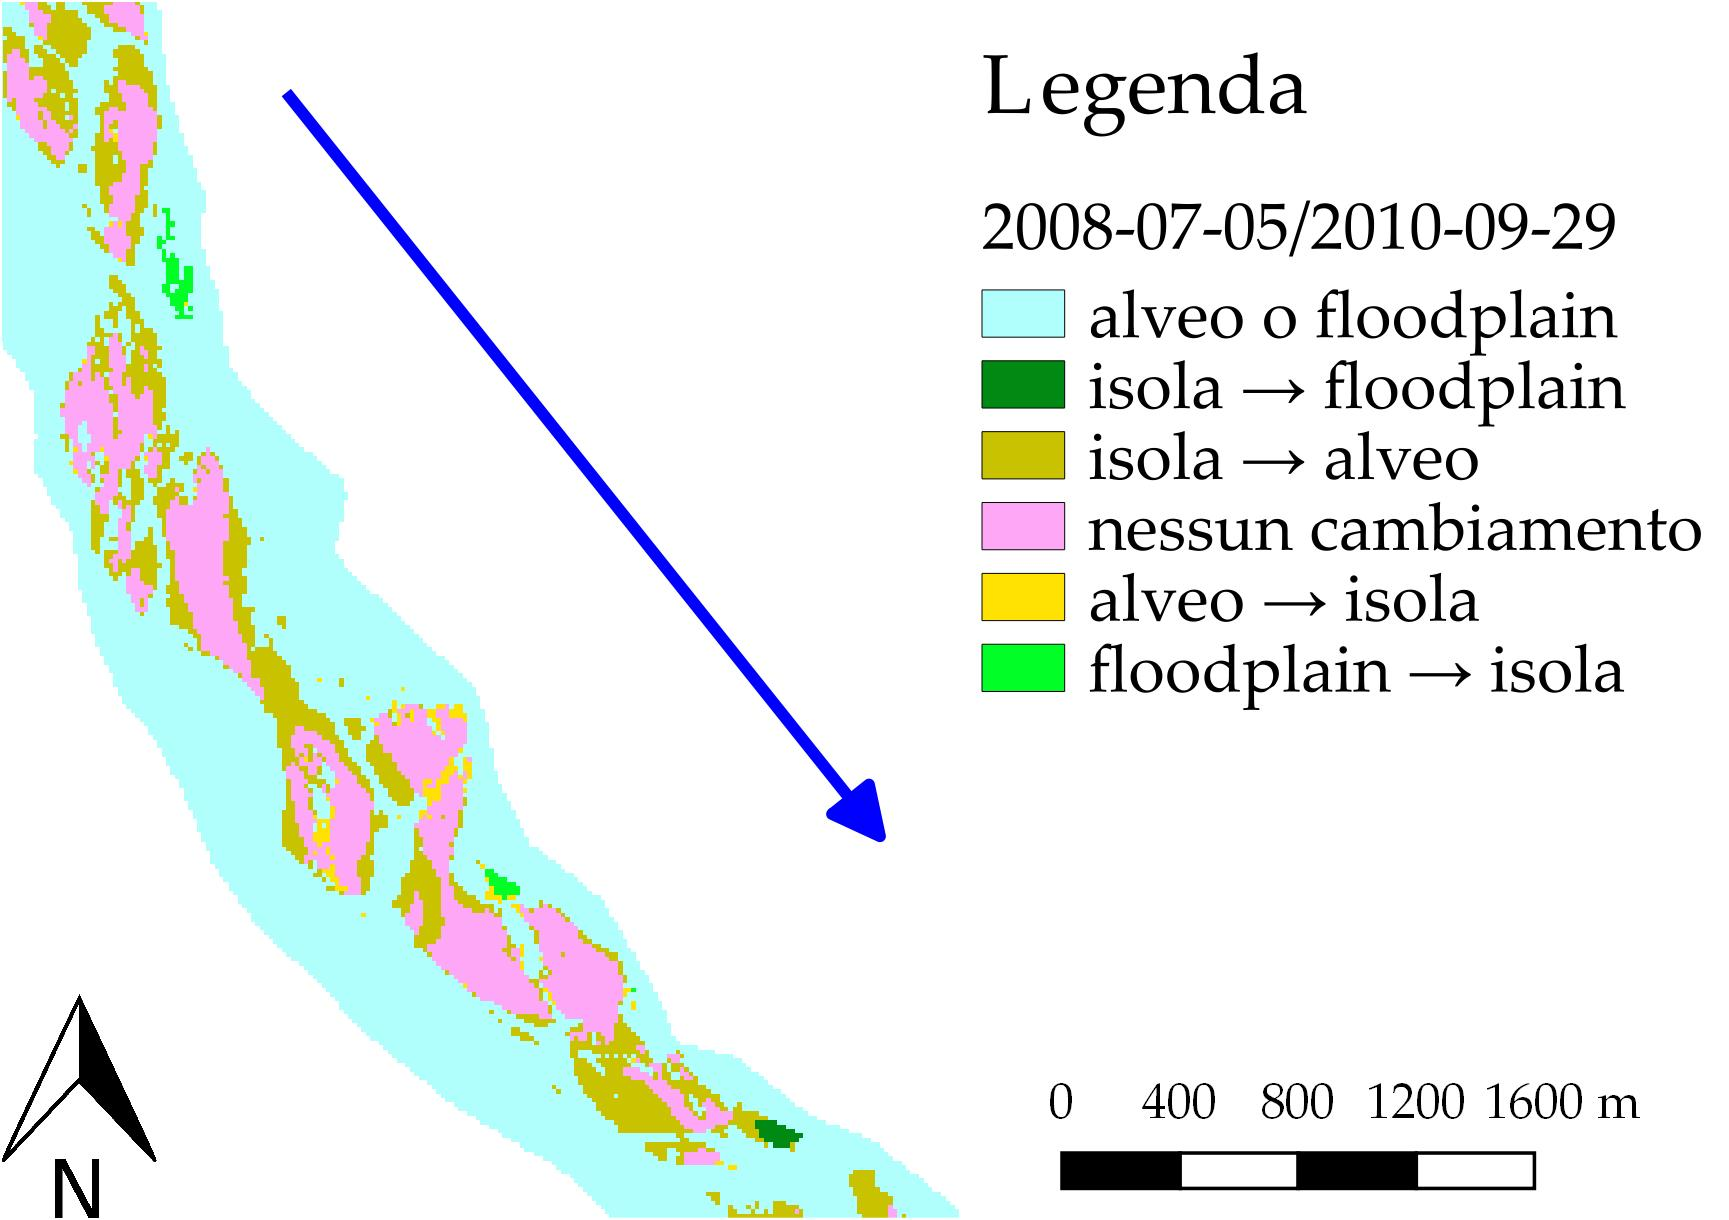
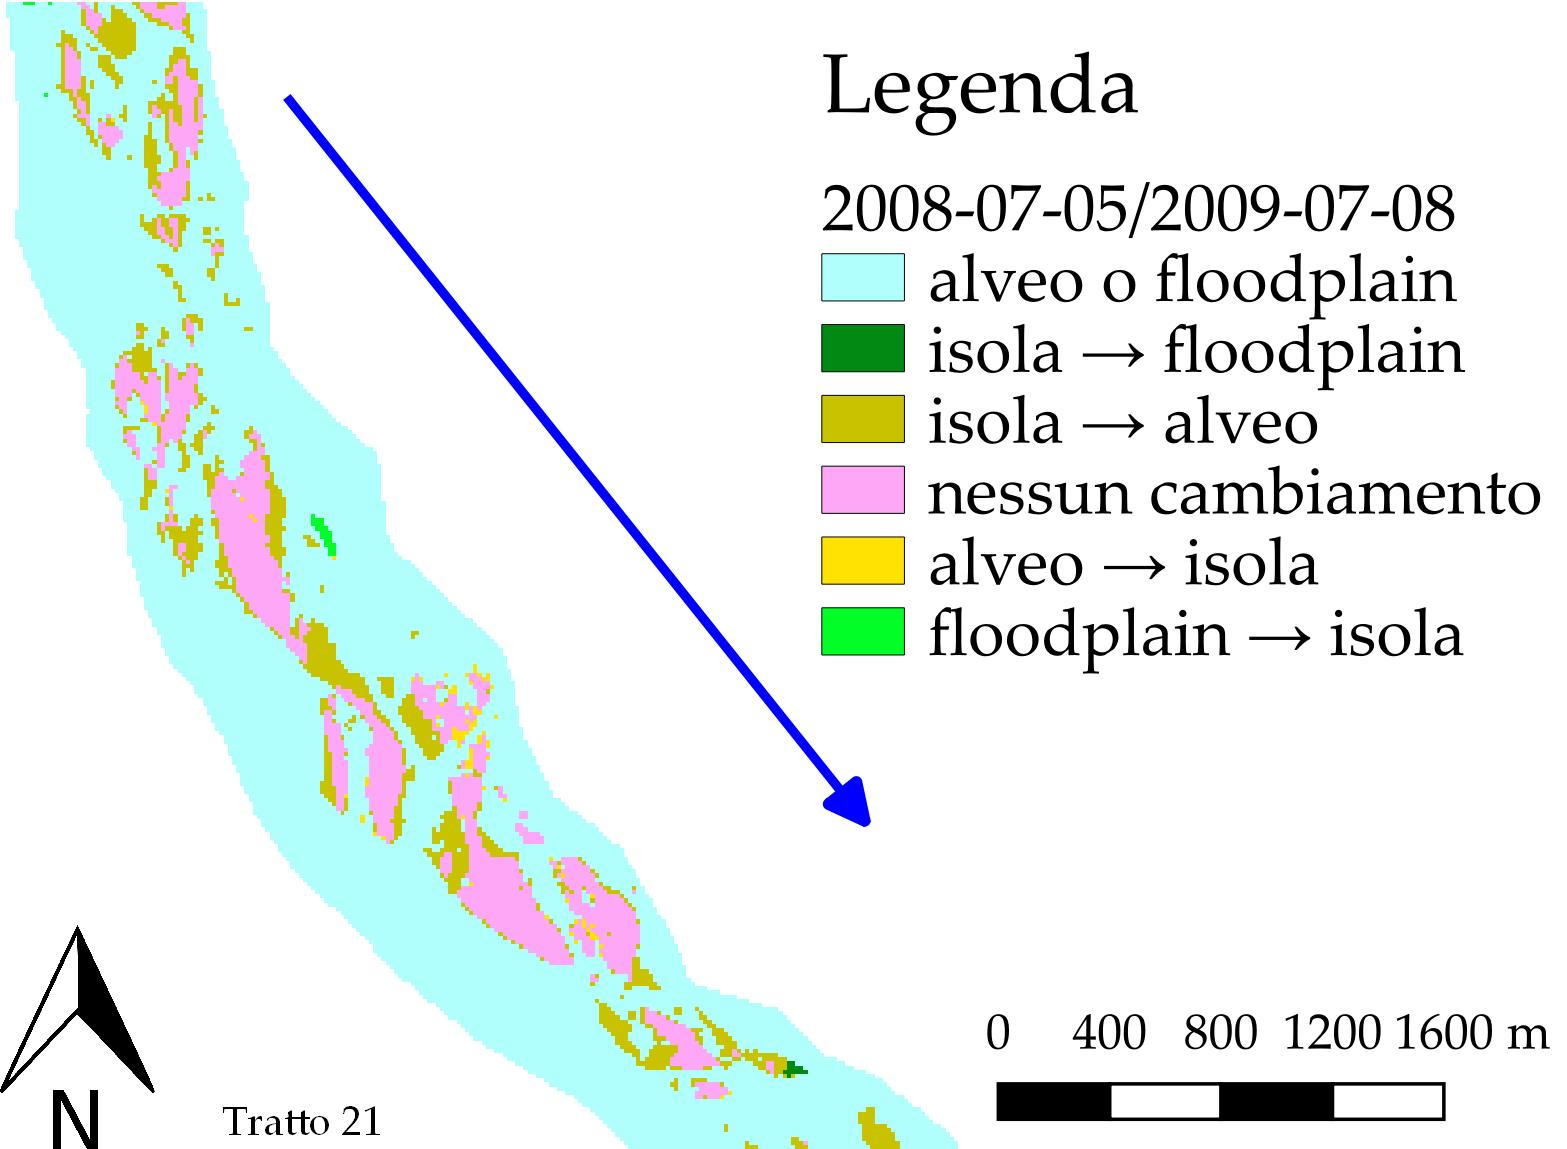
Fix+New: only new sat imgs, class_is_fl validated

diff --git a/capitoli/2-vegetazione-piene.tex b/capitoli/2-vegetazione-piene.tex
@@ -13,17 +13,17 @@ Per classificare il terreno occupato dall'alveo è stato seguito l'approccio di 
 	%
 	\begin{figure}[t]
 		\centering
-		\begin{subfigure}[b]{0.296\textwidth}
-			\includegraphics[width=\textwidth]{files/esempio_mask_2000_09_17.jpeg}
-			\caption{\AST{} 2000-09-17.}
+		\begin{subfigure}[b]{0.4\textwidth}
+			\includegraphics[width=\textwidth]{files/esempio_mask_2002_06_12.jpeg}
+			\caption{\AST{} 2002-06-12.}
 		\end{subfigure}
 		\qquad
-		\begin{subfigure}[b]{0.30\textwidth}
-			\includegraphics[width=\textwidth]{files/esempio_mask_2015_09_11.jpeg}
-			\caption{\AST{} 2015-09-11.}
+		\begin{subfigure}[b]{0.4\textwidth}
+			\includegraphics[width=\textwidth]{files/esempio_mask_2015_09_12.jpeg}
+			\caption{\Se{} 2015-09-12.}
 		\end{subfigure}
 		\caption[definizione della maschera per limitare il dominio computazionale]
-			{esempio in cui si vede come la maschera utilizzata per limitare il dominio computazionale (in giallo) sia il risultato dell'inviluppo degli alvei attivi che si sono modificati nel tempo; le immagini sono in falsi colori (IR-R-G).}
+			{esempio in cui si vede come la maschera utilizzata per limitare il dominio computazionale (in giallo) sia il risultato dell'inviluppo degli alvei attivi che si sono modificati nel tempo; le immagini sono le mappe di NDVI.}
 		\label{fig:esempio-maschera}
 	\end{figure}
 	%
@@ -71,11 +71,11 @@ Per classificare il terreno occupato dall'alveo è stato seguito l'approccio di 
 		\centering
 		\begin{tabular}{
 			c 
-			S[table-format=1.1]@{\,}
+			S[table-format=1.2]@{\,}
 			c@{\,}
 			c@{\,}
 			c@{\,}
-			S[table-format=1.1]
+			S[table-format=1.2]
 			S[table-format=1.1]@{\,}
 			c@{\,}
 			c@{\,}
@@ -85,8 +85,8 @@ Per classificare il terreno occupato dall'alveo è stato seguito l'approccio di 
 			\toprule
 			&	\multicolumn{5}{c}{\textbf{Soglie AST PL S2}}	&	\multicolumn{5}{c}{\textbf{Soglie WV2}}	\\
 			\midrule
-			Vegetazione		&	0.2	&	$\leq$	&	NDVI	&			&		& 	0.3	&	$\leq$	&	NDVI	&			& 	\\
-			Alveo attivo	&	0.0	&	$\leq$	&	NDVI	&	$<$		&	0.2	&	0.0	&	$\leq$	&	NDVI	&	$<$		&	0.3\\
+			Vegetazione		&	0.25	&	$\leq$	&	NDVI	&			&		& 	0.3	&	$\leq$	&	NDVI	&			& 	\\
+			Alveo attivo	&	0.0	&	$\leq$	&	NDVI	&	$<$		&	0.25	&	0.0	&	$\leq$	&	NDVI	&	$<$		&	0.3\\
 			Canale			&		&			&	NDVI	&	$<$		&	0.0	&		&			&	NDVI	&	$<$		&	0.0\\
 			\bottomrule
 		\end{tabular}
@@ -102,7 +102,7 @@ Per classificare il terreno occupato dall'alveo è stato seguito l'approccio di 
 	%
 	\begin{figure}
 		\centering
-		\includegraphics[width=.8\textwidth]{files/tutti_23_tratti.jpeg}
+		\includegraphics[width=\textwidth]{files/tutti_23_tratti.jpeg}
 		\caption[immagine con la maschera suddivisa in 23 tratti]{immagine con la maschera suddivisa in 23 tratti; la sezione di monte del tratto~1 corrisponde a Tolmezzo, la sezione di valle del tratto~23 corrisponde al ponte di Madrisio.}
 		\label{fig:23-tratti}
 	\end{figure}
@@ -148,8 +148,8 @@ Per classificare il terreno occupato dall'alveo è stato seguito l'approccio di 
 	%
 	\begin{figure}[ht]
 		\centering
-		\includegraphics[width=.8\textwidth]{files/esempio_class_is_fl.jpeg}
-		\caption[esempio della classificazione dell'area dei tratti]{esempio della classificazione dell'area dei tratti; la zona raffigurata si colloca a ridosso del ponte autostradale a valle di Braulins.}
+		\includegraphics[width=\textwidth]{files/esempio_class_is_fl.jpeg}
+		\caption[esempio della classificazione dell'area dei tratti]{esempio della classificazione dell'area dei tratti; le zone raffigurate sono rispettivamente a monte dell'isola di Cornino (in corrispondenza del monte Prat) e in corrispondenza della confluenza del Fella.}
 		\label{fig:class_is_fl}
 	\end{figure}
 	%
@@ -172,10 +172,31 @@ Al fine di validare la precedente procedura di controllo e correzione della dist
 		\input{graphics/plots/larghezze_tr_7_tr_15.tex}
 		\quad
 		\includegraphics[width=0.3\textwidth]{files/fusione_isola_tr_15.jpeg}
-		\caption[andamento temporale di $B$ per i tratti~7 e~15]{a sinistra si vede l'andamento nel tempo della larghezza media dei tratti~7 e~15; la $B$ del tratto~7 oscilla solamente di qualche decina di metri, mentre il tratto~15 riduce improvvisamente la sua $B$ a causa della fusione di una grande isola nella \emph{floodplain}, fenomeno mostrato a destra (A: 2003-11-29, B: 2005-08-30).}
+		\caption[andamento temporale di $B$ per i tratti~7 e~15]{a sinistra si vede l'andamento nel tempo della larghezza media dei tratti~7 e~15; la $B$ del tratto~7 oscilla solamente di qualche decina di metri, mentre il tratto~15 riduce improvvisamente la sua $B$ a causa della fusione di una grande isola nella \emph{floodplain}, fenomeno mostrato a destra (A: 2002-06-12, B: 2005-08-30).}
 		\label{fig:b-media-7-e-15}
 	\end{figure}
-	
+	%
+	%
+	\item[Ulteriore validazione] Si è confrontata la classificazione del 2011-10-02 con la classificazione eseguita manualmente da \cite{Surian:2015} nei tratti \numrange[range-phrase={$\div$}]{6}{12} (dal ponte autostradale di Braulins alla stretta di Pinzano).
+	Le mappe di classificazione del 2005-08-30, 2010-09-29, 2013-09-05 sono state confrontate con i CSM ricavati dai rilievi aerei LiDAR eseguiti nei corrispondenti anni sui tratti \numrange[range-phrase={$\div$}]{6}{12} (\vref{fig:validazione-class-is-fl}).
+	%	
+	\begin{figure}
+		\centering
+		\includegraphics[width=\textwidth]{files/Class_mia_vs_surian_csm.jpeg}
+		\caption[validazione della classificazione dell'alveo]{confronto tra le mappe di classificazione dell'alveo e i CSM dai rilievi aerei LiDAR e la classificazione manuale eseguita in \cite{Surian:2015}; le aree scure corrispondono alla vegetazione individuata nei CSM e dalla classificazione manuale; per la legenda delle mappe di classificazione dell'alveo vedere la \vref{fig:class_is_fl}.}
+		\label{fig:validazione-class-is-fl}
+	\end{figure}
+	%
+	\\
+	Visualmente si verifiche che c'è sostanziale corrispondenza tra le classificazioni ottenute dalle immagini satellitari e la vegetazione individuata dai CSM, così come tra la classificazione manuale di \cite{Surian:2015} e la mappa del 2011-10-22.
+	\\
+	Esiste una certa differenza tra la classificazione manuale e quella semi-automatica utilizzata nel presente lavoro: la metodologia con cui si procede influisce sul risultato finale.
+	Avendo \cite{Surian:2015} utilizzato ortofoto ad alta risoluzione (\SI{0.1}{\m}), hanno potuto facilmente distinguere le chiome dei singoli alberi dalla ghiaia o vegetazione bassa circostante; le immagini satellitari utilizzate (principalmente a risoluzione di \SI{10}{\m} o \SI{15}{\m}) permettono invece di osservare macchie di vegetazione.
+	In quanto si considera come isola non solo la vegetazione presente all'interno dell'alveo attivo, ma anche la zona meno vegetata posta circa alla medesima quota, l'approccio seguito sembra delineare più nettamente il contorno delle isole maggiori, sebbene le isole più piccole (con estensione minore di una cella) non siano individuate.
+	\\
+	Un rapido confronto delle mappe di classificazione \Pl{} e \WV{} ad alta risoluzione (\SI{0.5}{\m}) con le mappe di classificazione manuale e il CSM del 2013-10-22 mostra una sovrapposizione quasi completa della vegetazione individuata con i diversi metodi.
+	\\
+	A fronte di quanto esposto, si ritiene che la classificazione eseguita sia sufficientemente validata.
 \end{description}
 
 
@@ -223,14 +244,15 @@ L'analisi si è focalizzata sulle isole, escludendo così la piana alluvionale.
 \subsection{Metodi: ottenere il cambiamento}
 \paragraph{Limitazioni} \label{par:camb-limiti}
 Alcune mappe hanno una estensione limitata oppure presentano zone con copertura nuvolosa: ciò riduce il numero di confronti possibili per alcuni tratti. 
-Dalle 23 immagini satellitari (si veda la \vref{tab:date-orto-sat}) si sono ottenute in media 16~immagini per tratto.
+Dalle 23 immagini satellitari (si veda la \vref{tab:date-orto-sat}) si sono ottenute in media 20~immagini di confronto per tratto (\vref{tab:confronti}).
 
 Inoltre, le immagini \AST{} non sono correttamente georeferenziate e non sono perfettamente sovrapponibili; l'entità di questo scostamento è dell'ordine di qualche cella.
 Questo difetto è di grande importanza poiché per poter investigare l'evoluzione temporale delle isole occorre poter osservare nel tempo ogni cella; se questa si sposta da un'immagine alla successiva, il confronto non è più valido.
 \\
 La soluzione adottata è stata quella di traslare ogni mappa a nord, sud, est o ovest del numero di celle necessario per poterla sovrapporre alla mappa temporalmente precedente.
 L'operazione è stata ripetuta per ogni confronto, per ogni tratto, ed è stata verificata visivamente.
-Il massimo errore residuo è di 1~cella di scostamento in pochissime zone nei primi tratti (\numrange[range-phrase={ - }]{1}{4}); data la locale topografia montuosa si è preferito ridurre l'errore a tale entità e tenerlo sotto controllo piuttosto di distorcere la mappa con altre misure di georettifica.
+Il massimo errore residuo è di 1~cella (\SI{15}{\m}) di scostamento in pochissime zone nei primi tratti (\numrange[range-phrase={ - }]{1}{4}); data la locale topografia montuosa si è preferito ridurre l'errore a tale entità e tenerlo sotto controllo piuttosto di distorcere la mappa con altre misure di georettifica.
+L'entità di questo errore è accettabile poiché quasi tutte le isole hanno estensione maggiore di \SI{225}{\m\tothe{2}}.
 \\
 Le altre immagini sono invece correttamente georeferenziate.
 
@@ -263,7 +285,7 @@ dove
 %
 Si è scelto di normalizzare l'area di ogni classe per l'area totale per lavorare con percentuali.
 \\
-Nei ricampionamenti da \SI{0.5}{\m} il $50_\mathrm{mo}$ percentile (mediana) è quello che mostra il minor RSQR ($<\SI{3}{\percent}$); in quelli da \SI{10}{\m} il $75_\mathrm{mo}$ percentile (terzo quartile) è il migliore ($RSQR<\SI{6}{\percent}$). Un esempio del risultato ottenuto è mostrato in \vref{fig:ricampionamento}.
+Nei ricampionamenti da \SI{0.5}{\m} il $50_\mathrm{mo}$ percentile (mediana) è quello che mostra il minor RSQR ($<\SI{3}{\percent}$). Un esempio del risultato ottenuto è mostrato in \vref{fig:ricampionamento}.
 %
 \begin{figure}
 	\centering
@@ -289,29 +311,29 @@ I confronti effettuati hanno la massima risoluzione temporale possibile, cioè p
 		\textbf{Tratto}	&	\textbf{Confronti}	&	\textbf{Primo}		&	\textbf{Ultimo}	\\
 						&	\textbf{validi}		&	\textbf{confronto}	&	\textbf{confronto}	\\
 		\midrule
-		1	&	13	&	2000-09-17/2003-06-22	&	2016-09-13/2017-04-21	\\
-		2	&	13	&	2000-09-17/2001-06-17	&	2016-09-13/2017-04-21	\\
-		3	&	16	&	2000-09-17/2001-06-17	&	2016-09-13/2017-04-21	\\
-		4	&	16	&	2000-09-17/2001-06-17	&	2016-09-13/2017-04-21	\\
-		5	&	16	&	2000-09-17/2001-06-20	&	2016-09-13/2017-04-21	\\
-		6	&	18	&	2000-09-17/2001-06-17	&	2017-04-21/2018-06-15	\\
-		7	&	18	&	2000-09-17/2001-06-17	&	2017-04-21/2018-06-15	\\
-		8	&	19	&	2000-09-17/2001-06-17	&	2017-04-21/2018-06-15	\\
-		9	&	18	&	2000-09-17/2002-05-18	&	2017-04-21/2018-06-15	\\
-		10	&	18	&	2000-09-17/2002-05-18	&	2017-04-21/2018-06-15	\\
-		11	&	18	&	2000-09-17/2002-05-18	&	2017-04-21/2018-06-15	\\
-		12	&	18	&	2000-09-17/2002-05-18	&	2017-04-21/2018-06-15	\\
-		13	&	18	&	2000-09-17/2002-05-18	&	2017-04-21/2018-06-15	\\
-		14	&	21	&	2000-09-17/2002-05-18	&	2017-04-21/2018-06-15	\\
-		15	&	16	&	2000-09-17/2002-06-12	&	2016-09-13/2017-04-21	\\
-		16	&	16	&	2000-09-17/2002-06-12	&	2016-09-13/2017-04-21	\\
-		17	&	16	&	2000-09-17/2002-06-12	&	2016-09-13/2017-04-21	\\
-		18	&	16	&	2000-09-17/2002-06-12	&	2016-09-13/2017-04-21	\\
-		19	&	13	&	2000-09-17/2002-06-12	&	2016-09-13/2017-04-39	\\
-		20	&	13	&	2000-09-17/2002-06-12	&	2014-09-28/2015-09-11	\\
-		21	&	13	&	2000-09-17/2002-06-12	&	2014-09-28/2015-09-11	\\
-		22	&	13	&	2000-09-17/2002-06-12	&	2014-09-28/2015-09-11	\\
-		23	&	12	&	2002-06-12/2003-06-22	&	2014-09-28/2015-09-11	\\
+		1	&	17	&	2000-09-17/2002-05-18	&	2017-09-13/2018-09-16	\\
+		2	&	18	&	2000-09-17/2002-05-18	&	2017-09-13/2018-09-16	\\
+		3	&	19	&	2000-09-17/2001-06-07	&	2017-09-13/2018-09-16	\\
+		4	&	19	&	2000-09-17/2001-06-07	&	2017-09-13/2018-09-16	\\
+		5	&	19	&	2000-09-17/2001-06-07	&	2017-09-13/2018-09-16	\\
+		6	&	23	&	2000-09-17/2001-06-07	&	2018-06-15/2018-09-16	\\
+		7	&	23	&	2000-09-17/2001-06-07	&	2018-06-15/2018-09-16	\\
+		8	&	23	&	2000-09-17/2001-06-07	&	2018-06-15/2018-09-16	\\
+		9	&	22	&	2000-09-17/2002-05-18	&	2018-06-15/2018-09-16	\\
+		10	&	22	&	2000-09-17/2002-05-18	&	2018-06-15/2018-09-16	\\
+		11	&	21	&	2000-09-17/2002-05-18	&	2018-06-15/2018-09-16	\\
+		12	&	21	&	2000-09-17/2002-05-18	&	2018-06-15/2018-09-16	\\
+		13	&	22	&	2000-09-17/2002-05-18	&	2018-06-15/2018-09-16	\\
+		14	&	23	&	2000-09-17/2002-05-18	&	2018-06-15/2018-09-16	\\
+		15	&	19	&	2000-09-17/2002-06-12	&	2017-09-13/2018-09-16	\\
+		16	&	19	&	2000-09-17/2002-06-12	&	2017-09-13/2018-09-16	\\
+		17	&	19	&	2000-09-17/2002-06-12	&	2017-09-13/2018-09-16	\\
+		18	&	19	&	2000-09-17/2002-06-12	&	2017-09-13/2018-09-16	\\
+		19	&	19	&	2000-09-17/2002-06-12	&	2017-09-13/2018-09-16	\\
+		20	&	19	&	2000-09-17/2002-06-12	&	2017-09-13/2018-09-16	\\
+		21	&	19	&	2000-09-17/2001-06-07	&	2017-09-13/2018-09-16	\\
+		22	&	19	&	2001-06-07/2002-06-12	&	2017-09-13/2018-09-16	\\
+		23	&	19	&	2001-06-07/2002-06-12	&	2017-09-13/2018-09-16	\\
 		\bottomrule
 	\end{tabular}
 	\caption[confronti effettuati]{confronti effettuati con le 23 immagini satellitari a disposizione per ottenere dati sul cambiamento delle isole.}
@@ -335,7 +357,7 @@ Un esempio di questa classificazione è riportato nella \vref{fig:confr-class-is
 \begin{figure}
 	\centering
 	\includegraphics[width=.8\textwidth]{files/confr_class_is_fl.jpeg}
-	\caption[esempio di mappa di cambiamento]{esempio di mappa di cambiamento ottenuta con il confronto tra le immagini \AST{} 2008-07-05 e 2010-09-29. Si possono osservare tutti i cambiamenti possibili; la prima classe serve solamente a visualizzare l'area della maschera computazionale. Il tratto mostrato è posto qualche \si{\kilo\m} a monte del ponte di Madrisio.}
+	\caption[esempio di mappa di cambiamento]{esempio di mappa di cambiamento ottenuta con il confronto tra le immagini \AST{} 2008-07-05 e 2009-07-08. Si possono osservare tutti i cambiamenti possibili; la prima classe serve solamente a visualizzare l'area della maschera computazionale. Il tratto mostrato è posto qualche \si{\kilo\m} a monte del ponte di Madrisio.}
 	\label{fig:confr-class-is-fl}
 \end{figure}
 %
@@ -358,8 +380,8 @@ Dall'altra parte, nonostante la maggior intensità e durata le piene del 2012 e 
 	\input{graphics/plots/livelli}
 	\\
 	\input{graphics/plots/tr_17_camb}
-	\caption[cambiamenti esperiti dalle isole nel tratto~17]{cambiamenti esperiti dalle isole nel tratto~17 rappresentati come percentuale rispetto all'areale delle isole nella prima immagine utile. 
-	Si nota il dato relativo al confronto 2008-07-05/2010-09-29, particolarmente elevato e di pari entità tra crescita ed erosione.}
+	\caption[cambiamenti esperiti dalle isole nel tratto~17]{cambiamenti esperiti dalle isole nel tratto~17 rappresentati come percentuale rispetto all'areale delle isole nel 2000-09-17. 
+	Si nota il dato relativo al confronto 2008-07-05/2009-07-08, particolarmente elevato e di quasi pari entità tra crescita ed erosione.}
 	\label{graph:tr-17-camb}
 \end{figure}
 %
@@ -397,7 +419,7 @@ Si crede che ciò che possa accadere è che fino ad una certa età, circa \SI{3}
 
 Le mappe del cambiamento sono state ottenute dalle mappe di classificazione; non essendo le seconde correttamente georeferenziate, neanche le prime lo sono. L'errore residuo nel processo di correzione è di 1~cella.
 
-Infine, per poter confrontare nel corso degli anni ogni cella, le mappe del cambiamento sono state ricampionate alla risoluzione più bassa, corrispondente a celle di~\SI{15}{\m} di lato. Si è proceduto come mostrato nel paragrafo \ref{par:camb-limiti} ottenendo valori $RSQR < \SI{1.5}{\percent}$.
+Infine, per poter confrontare nel corso degli anni ogni cella, le mappe del cambiamento sono state ricampionate alla risoluzione più bassa, corrispondente a celle di~\SI{15}{\m} di lato. Si è proceduto come mostrato nel paragrafo \ref{par:camb-limiti} ottenendo sempre valori $RSQR < \SI{1.5}{\percent}$; i confronti a~\SI{10}{\m} sono stati ricampionati a~\SI{15}{\m} applicando il valore del $75_\mathrm{mo}$ percentile (terzo quartile).
  
 
 %TODO le piante crescono diversamente in base alle condizioni ambientali (cita articolo Gurnell?) → definire un'età in base al tempo di osservazione è un approccio limitato (qualche altro lavoro simile)
@@ -434,10 +456,10 @@ I grafici in \vref{graph:distr-eta} mostrano la distribuzione di età della vege
 \end{itemize}
 
 %TODO da migliorare (togliere la descrizione all'asse y?)
-%
+%TODO come rappresentare i dati? Una colonna per la veg presente e una per quella erosa? Come differenza con stack negative = separate?
 \begin{figure}
 	\centering
-	\input{graphics/plots/tr_8_eta}
+	\input{graphics/plots/eta_tratti_8_11_17}
 	\caption[areale delle classi d'età per i tratti~8, 11 e~17]{areale delle tre classi di età per alcune immagini dei tratti~8, 11 e~17.}% \numlist[list-final-separator={ e }]{8;11;17}.}
 	\label{graph:distr-eta}
 \end{figure}

diff --git a/graphics/plots/tr_17_camb.tex b/graphics/plots/tr_17_camb.tex
@@ -4,11 +4,12 @@
 			group size = 2 by 1,
 			ylabels at = edge left,
 			x descriptions at = edge bottom,
-			horizontal sep = 1.1cm,
+			horizontal sep = 1cm,
 			vertical sep = 0.1cm,
 		},
 		width = 0.5\textwidth,
 		height = 0.5\textwidth,
+		date ZERO = 2000-01-01,
 		date coordinates in = x,
 		xticklabel = {$\year$},
 		xticklabel style = {
@@ -16,7 +17,7 @@
 			anchor = near xticklabel
 		},
 		xtick distance = 731,
-		ymax = 0.75,
+		ymax = 0.35,
 		ylabel = {Cambiamento/Isole iniziali \si{[\percent]}},%\si{[\m\tothe{2}]}},
 		grid = major,
 		]

diff --git a/graphics/plots/larghezze_tr_7_tr_15.tex b/graphics/plots/larghezze_tr_7_tr_15.tex
@@ -3,6 +3,7 @@
 		width = 0.6\textwidth,
 		height = 0.5\textwidth,
 		date coordinates in = x,
+		date ZERO = 2000-01-01,
 		xticklabel = {$\year$},
 		xticklabel style = {
 			rotate = 80,
@@ -11,9 +12,6 @@
 		xtick distance = 730,
 		enlarge x limits = 0.05,
 		enlarge y limits = 0.01,
-		%ymax = 3.7,
-		%ymin = -0.1,
-		%ytick distance = 0.5,
 		ylabel = {Larghezza media dell'alveo \si{[\m]}},
 		grid = major,
 		]
